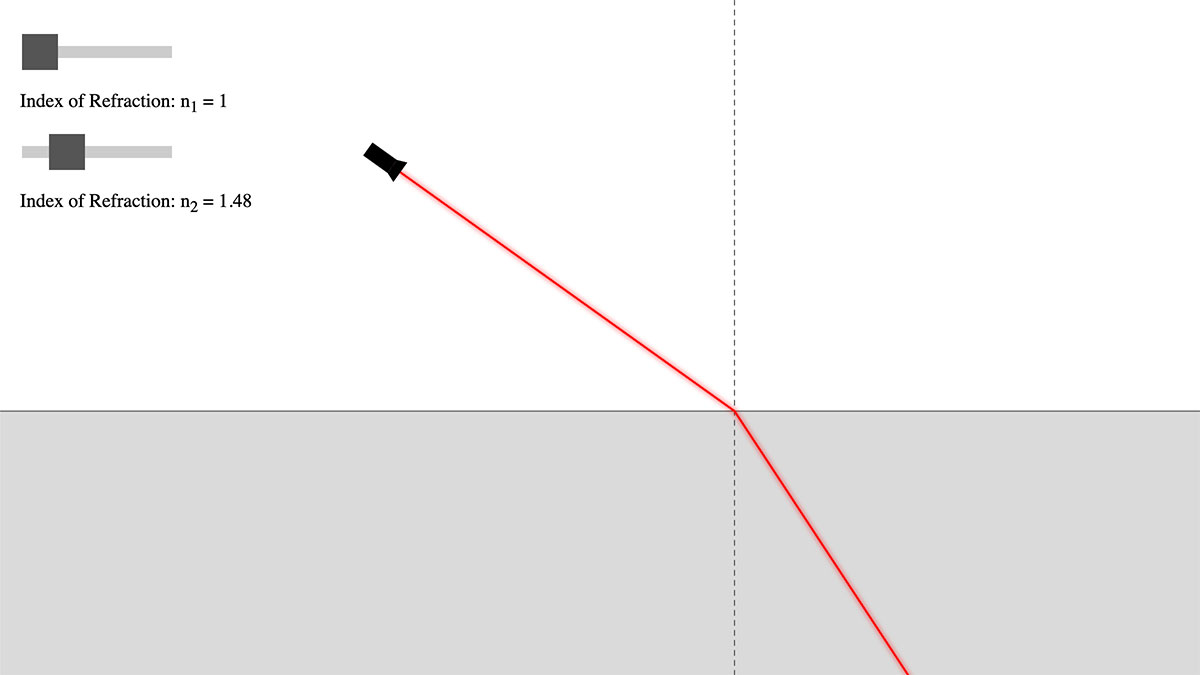
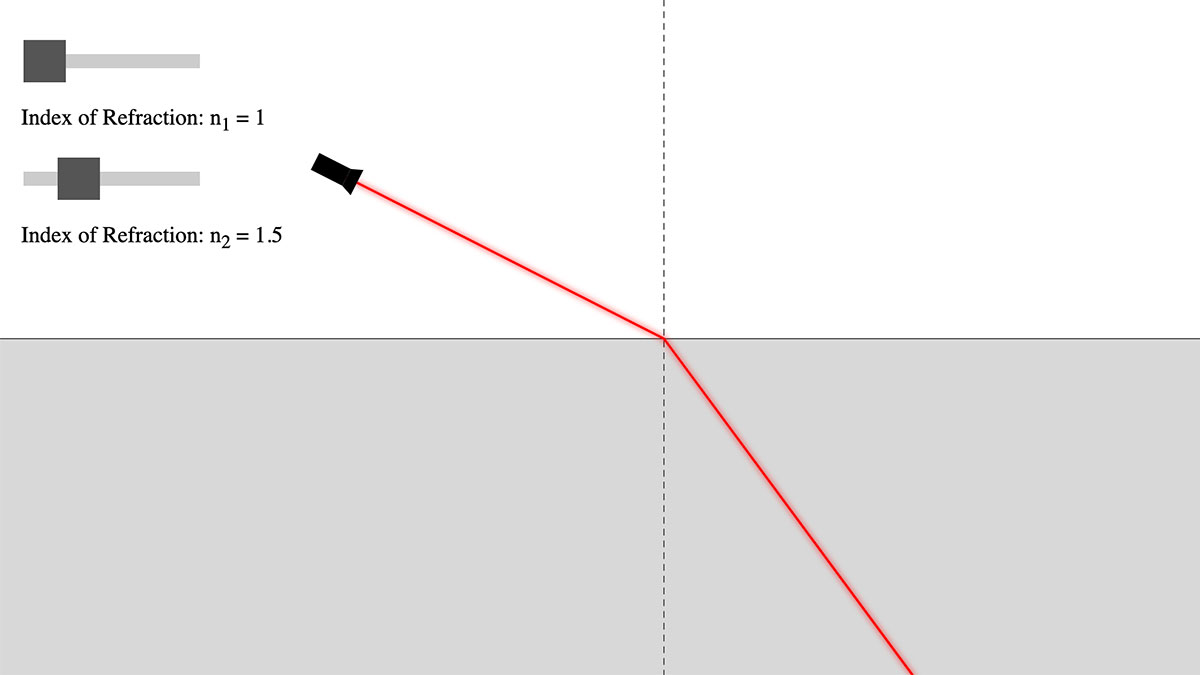
update snells law

diff --git a/_simdocs/snells-law.md b/_simdocs/snells-law.md
@@ -1,0 +1,18 @@
+---
+title: Snell's Law
+summary: See how refraction changes the direction of a light ray
+nice-name: snells-law
+instructions: Drag the flashlight around to change its position and angle. Use the sliders to control the index of refraction in the two regions.
+explanation: Snell's Law describes how the angle of refraction depends on the change in index of refraction between two materials. The angles of the raw follow the well known law $$n_1\sin\theta_1=n_2\sin\theta_2$$. This simulation shows the path a light ray would take based on the index of refraction of the two materials. Total internal reflection also occurs when the angle of incidence is too small. 
+location: https://ccny-physics-sims.github.io/sims/snells-law/
+width: 900
+height: 500
+subject: physics
+topics: light
+contributors: hedbergj
+tags:
+- light rays
+- snells law
+- total internal reflection
+added: 2021-11-23
+---
